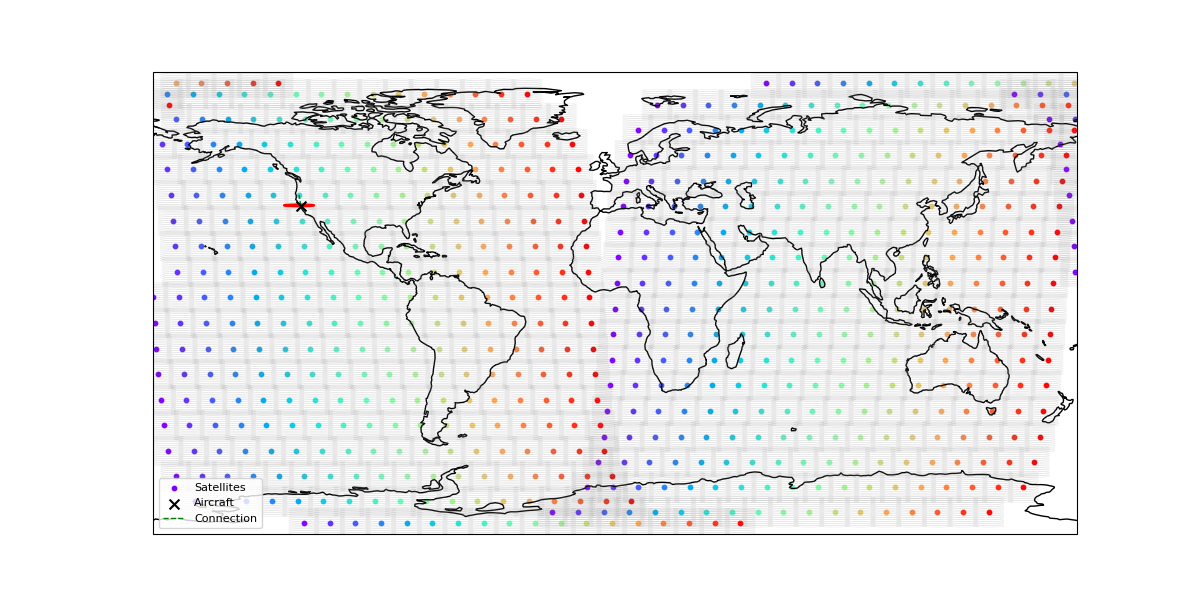
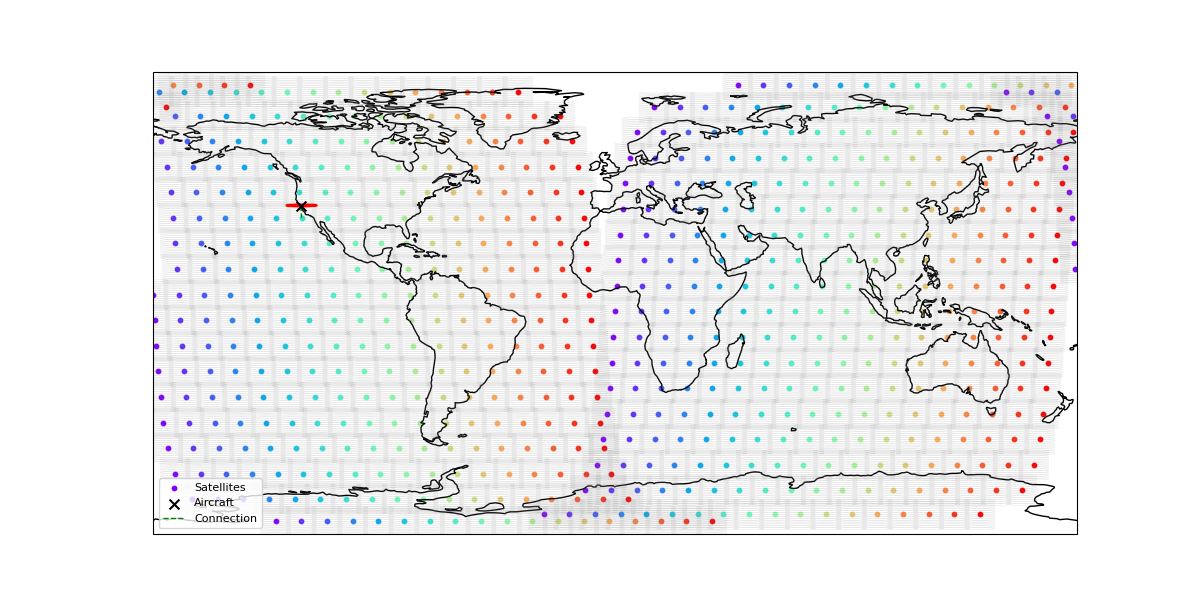
fixed beamload issue issue that stopped connection

diff --git a/HandoverEnvironment.py b/HandoverEnvironment.py
@@ -1,72 +1,102 @@
-# import libraries 
 import gymnasium as gym
 from gymnasium import spaces
 import numpy as np
-import random
+import simpy
+from LEOEnvironment import initialize
 
+class LEOEnv(gym.Env):
+    """
+    Gymnasium environment wrapper for the LEO satellite handover simulation.
+    """
 
-# Beam handover environment 
-class BeamHandoverEnv(gym.Env):
-    """Custom Gymnasium environment for satellite beam handover."""
-    def __init__(self, num_beams=5, episode_length=100):
-        super().__init__()
-        self.num_beams = num_beams
-        self.episode_length = episode_length
+    def __init__(self, img_path="PopMap_500.png", input_csv="input.csv", movementTime=20, deltaT=20, max_steps=100):
+        super(LEOEnv, self).__init__()
+
+        # Action space: 0 = stay, 1 = handover (example, can be expanded)
+        self.action_space = spaces.Discrete(2)
+
+        # Observation space: [aircraft_lat, aircraft_lon, snr, beam_load, beam_capacity]
+        # You can expand this as needed
+        low = np.array([-90, -180, -100, 0, 0], dtype=np.float32)
+        high = np.array([90, 180, 100, 100, 1000], dtype=np.float32)
+        self.observation_space = spaces.Box(low=low, high=high, dtype=np.float32)
+
+        self.img_path = img_path
+        self.input_csv = input_csv
+        self.movementTime = movementTime
+        self.deltaT = deltaT
+        self.max_steps = max_steps
+
+        self.env = None
+        self.earth = None
+        self.aircraft = None
         self.current_step = 0
-        # Action space: pick one beam
-        self.action_space = spaces.Discrete(self.num_beams)
-        # Observation: [x_position, y_position, time_step, current_beam_id, aircraft demand]
-        self.observation_space = spaces.Box(low=0, high=100, shape=(4,), dtype=np.float32)
-        self.beams = self._generate_beams()
-        self.demand = self._generate_demand()
-        self.position = (0, 0)
-        self.current_beam = 0
-        self.total_throughput = 0
-    def _generate_beams(self):
-        # Simulate static GEO beams
-        return [
-            {
-                "capacity": random.uniform(10, 20),
-                "MIR": random.uniform(5, 10),
-                "congestion": random.uniform(0.1, 0.7)
-            }
-            for _ in range(self.num_beams)
-        ] 
-    def _generate_demand(self):
-        return random.uniform(5, 15)  # or use a pattern: sinusoidal, bursty, etc.    
-    def _get_observation(self):
-        return np.array([
-            self.position[0],
-            self.position[1],
-            self.current_step,
-            self.current_beam, 
-            self.demand
-        ], dtype=np.float32)
+
+        self._setup_simulation()
+
+    def _setup_simulation(self):
+        import pandas as pd
+        import os
+
+        # Ensure input.csv exists
+        if not os.path.exists(self.input_csv):
+            with open(self.input_csv, "w") as f:
+                f.write("Test length,Constellation\n")
+                f.write("100,OneWeb\n")
+
+        inputParams = pd.read_csv(self.input_csv)
+
+        # Ensure population map exists
+        if not os.path.exists(self.img_path):
+            from PIL import Image
+            Image.new('L', (500, 250)).save(self.img_path)
+
+        self.env = simpy.Environment()
+        self.earth = initialize(self.env, self.img_path, inputParams, self.movementTime)
+        self.aircraft = self.earth.aircraft[0]  # Assume single aircraft for now
+        self.current_step = 0
+
     def reset(self, seed=None, options=None):
-        self.current_step = 0
-        self.position = (0.0, 0.0)
-        self.current_beam = 0
-        self.total_throughput = 0.0
-        self.beams = self._generate_beams()
-        obs = self._get_observation()
-        return obs, {}
-    def step(self, action):
-        assert self.action_space.contains(action), "Invalid action"
-        self.current_step += 1
-        self.position = (self.position[0] + 1.0, self.position[1] + 0.5)
-        # Select beam and calculate reward
-        beam = self.beams[action]
-        congestion_factor = 1.0 - beam["congestion"]
-        throughput = min(beam["MIR"], beam["capacity"]) * congestion_factor
-        handover_penalty = 1.0 if action != self.current_beam else 0.0
-        reward = throughput - handover_penalty
-        self.current_beam = action
-        self.total_throughput += throughput
-        obs = self._get_observation()
-        done = self.current_step >= self.episode_length
+        super().reset(seed=seed)
+        self._setup_simulation()
+        obs = self._get_obs()
         info = {}
-        return obs, reward, done, False, info
+        return obs, info
+
+    def step(self, action):
+        # Example: action could be used to force a handover or stay
+        # For now, the environment logic is handled by the simpy/earth step
+        self.env.run(until=self.env.now + self.deltaT)
+        self.current_step += 1
+
+        obs = self._get_obs()
+        reward = self._get_reward()
+        terminated = self.current_step >= self.max_steps
+        truncated = False
+        info = {}
+
+        return obs, reward, terminated, truncated, info
+
+    def _get_obs(self):
+        # Example observation: aircraft lat, lon, snr, beam load, beam capacity
+        ac = self.aircraft
+        lat = ac.latitude
+        lon = ac.longitude
+        snr = ac.current_snr if ac.current_snr is not None else 0
+        load = ac.connected_beam.load if ac.connected_beam else 0
+        cap = ac.connected_beam.capacity if ac.connected_beam else 0
+        return np.array([lat, lon, snr, load, cap], dtype=np.float32)
+
+    def _get_reward(self):
+        # Example reward: allocation ratio (maximize throughput satisfaction)
+        if self.aircraft.allocation_ratios:
+            return self.aircraft.allocation_ratios[-1]
+        return 0.0
+
     def render(self):
-        print(f"Step {self.current_step}: Position={self.position}, Beam={self.current_beam}")
-    def close(self):
-        pass
+        # Optionally call earth.plotMap() or similar for visualization
+        if self.earth:
+            self.earth.plotMap(plotSat=True, plotBeams=True, plotAircrafts=True, aircrafts=[self.aircraft])
+
+    def close(self): 
+        pass 

diff --git a/LEOEnvironment.py b/LEOEnvironment.py
@@ -152,7 +152,7 @@ class Beam:
         self.snr = snr # Base SNR, will be adjusted for user position
         self.id = id  # Optional: unique identifier for the beam
         self.load_amplitude = 0.5 
-        self.load_frequency = 2 * math.pi / 10 
+        self.load_frequency = 2 * math.pi / 900 
         self.load_phase = random.uniform(0, 2 * math.pi)
         self.base_load = 0.5 
         
@@ -228,7 +228,7 @@ class Beam:
         current_load = self.base_load + sinusoidal_component
         
         # Ensure load stays within reasonable bounds (0-100%)
-        return max(0, min(100, current_load))
+        return current_load
     
     def update_load(self, time_seconds):
         """
@@ -489,6 +489,9 @@ class Aircraft:
         self.current_latency = 0
         self.handover_count = 0
 
+        self.total_allocated_bandwidth = 0.0  # Total allocated bandwidth (MB)
+        self.allocation_ratios = []
+
         print(f"Aircraft {self.id} initialized at ({self.latitude:.2f}, {self.longitude:.2f})")
 
     def __repr__(self):
@@ -564,7 +567,7 @@ class Aircraft:
             aircraft_point = Point(self.longitude, self.latitude)
             if beam.get_footprint_eclipse().contains(aircraft_point):
                  print(f"  - Beam {beam.id} on Sat {sat.ID} | Distance: {dist_3d/1000:.2f} km | SNR: {snr:.2f} dB (In Footprint)")
-                 if snr > best_snr and (beam.load < beam.capacity):
+                 if snr > best_snr:
                     best_snr = snr
                     best_candidate_beam = beam
                     best_candidate_sat = sat
@@ -654,6 +657,10 @@ class Aircraft:
             ratio = allocated / demand
         else:
             ratio = 0
+
+        # Track stats for the episode
+        self.total_allocated_bandwidth += allocated
+        self.allocation_ratios.append(ratio)            
 
         return ratio, allocated, demand, beam_capacity_MB   
  
@@ -1136,7 +1143,7 @@ def main():
 
     # Start plotting process to save map images at intervals
     # plotAircrafts is set to True to show aircraft on the map
-    env.process(earth_instance.save_plot_at_intervals(env, interval=10, plotSat=True, plotBeams=True, plotAircrafts=True, aircrafts=all_aircrafts))
+    env.process(earth_instance.save_plot_at_intervals(env, interval=movementTime, plotSat=True, plotBeams=True, plotAircrafts=True, aircrafts=all_aircrafts))
 
     progress = env.process(simProgress(simulationTimelimit, env))
     startTime = time.time()
@@ -1150,6 +1157,8 @@ def main():
         if aircraft.connected_beam:
             print(f"Aircraft '{aircraft.id}' final connected beam: {aircraft.connected_beam.id}")
             print(f"Aircraft '{aircraft.id}' final SNR: {aircraft.current_snr:.2f} dB")
+            print(f"Aircraft '{aircraft.id}' total allocated BW: {aircraft.total_allocated_bandwidth:.2f} MB")
+            print(f"Aircraft '{aircraft.id}' Average Allocation to demand: {sum(aircraft.allocation_ratios)/len(aircraft.allocation_ratios):.2f}")
             print(f"Aircraft '{aircraft.id}' final Latency: {aircraft.current_latency*1e3:.2f} ms")
         else:
             print(f"Aircraft '{aircraft.id}' ended the simulation with no connection.")
